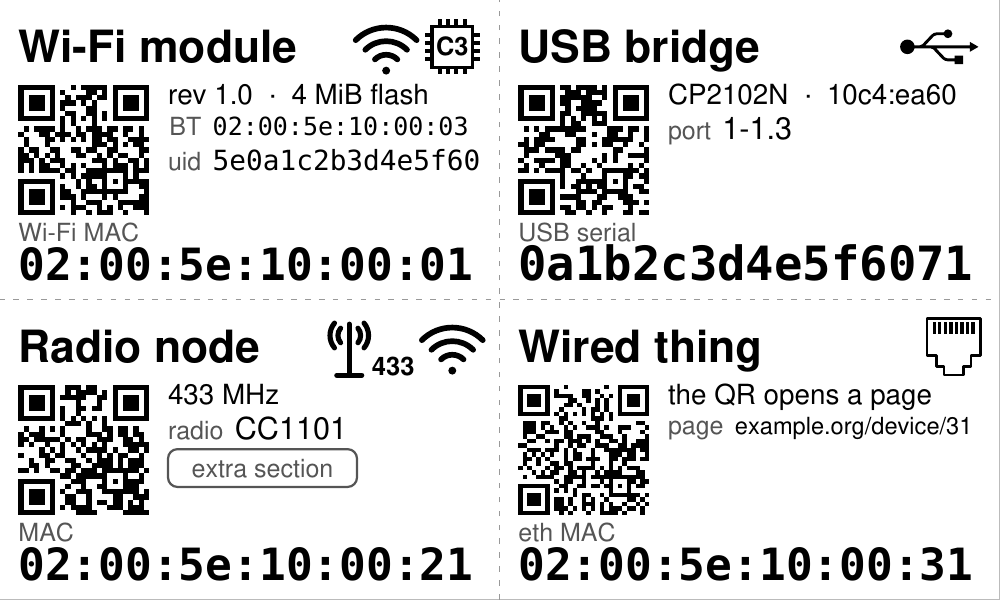
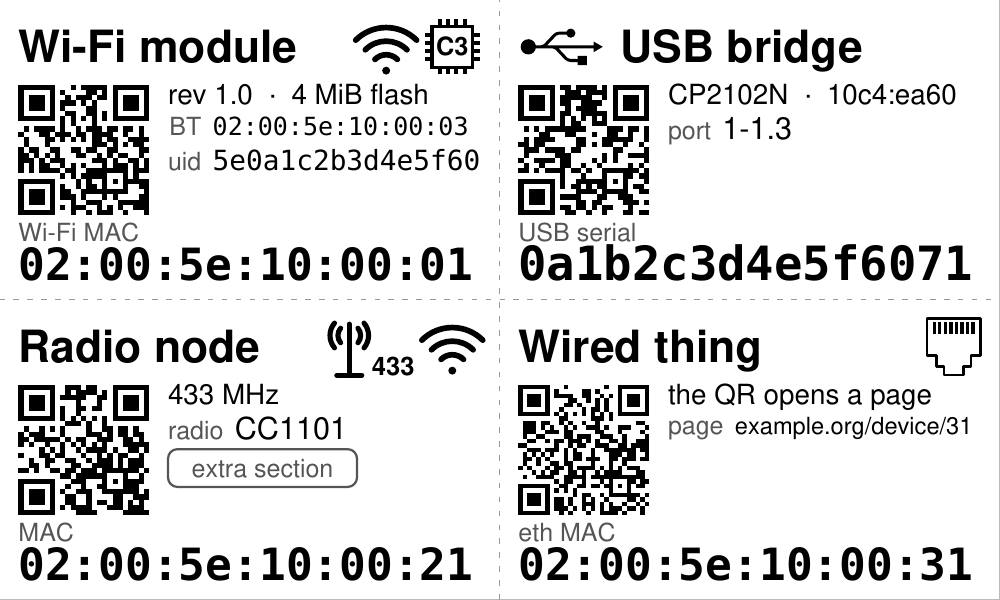
docs: show the mark slot in the micro-label example
The render's docstring promised every slot filled once, but no example
set a maker's mark. The USB bridge now carries the public-domain USB
trident in the mark slot instead of as a glyph.

Claude-Session: https://claude.ai/code/session_011gi1cqJmbi4V7JwLhB1TQV

Changed region(s): [[0.527, 0.03, 0.868, 0.12], [0.899, 0.03, 0.992, 0.12]]

diff --git a/docs/examples/render_micro.py b/docs/examples/render_micro.py
@@ -51,7 +51,7 @@ EXAMPLES = [
                      MicroRow("uid", "5e0a1c2b3d4e5f60", mono=True))),
     MicroLabel(host="bench-1", title="USB bridge", subtitle="CP2102N  ·  10c4:ea60",
                ident_caption="USB serial", ident="0a1b2c3d4e5f6071",
-               icons=(Icon("usb"),),
+               mark="usb.svg",   # the public-domain trident, in the mark slot
                rows=(MicroRow("port", "1-1.3"),)),
     MicroLabel(host="bench-2", title="Radio node", subtitle="433 MHz",
                ident_caption="MAC", ident="02:00:5e:10:00:21",
